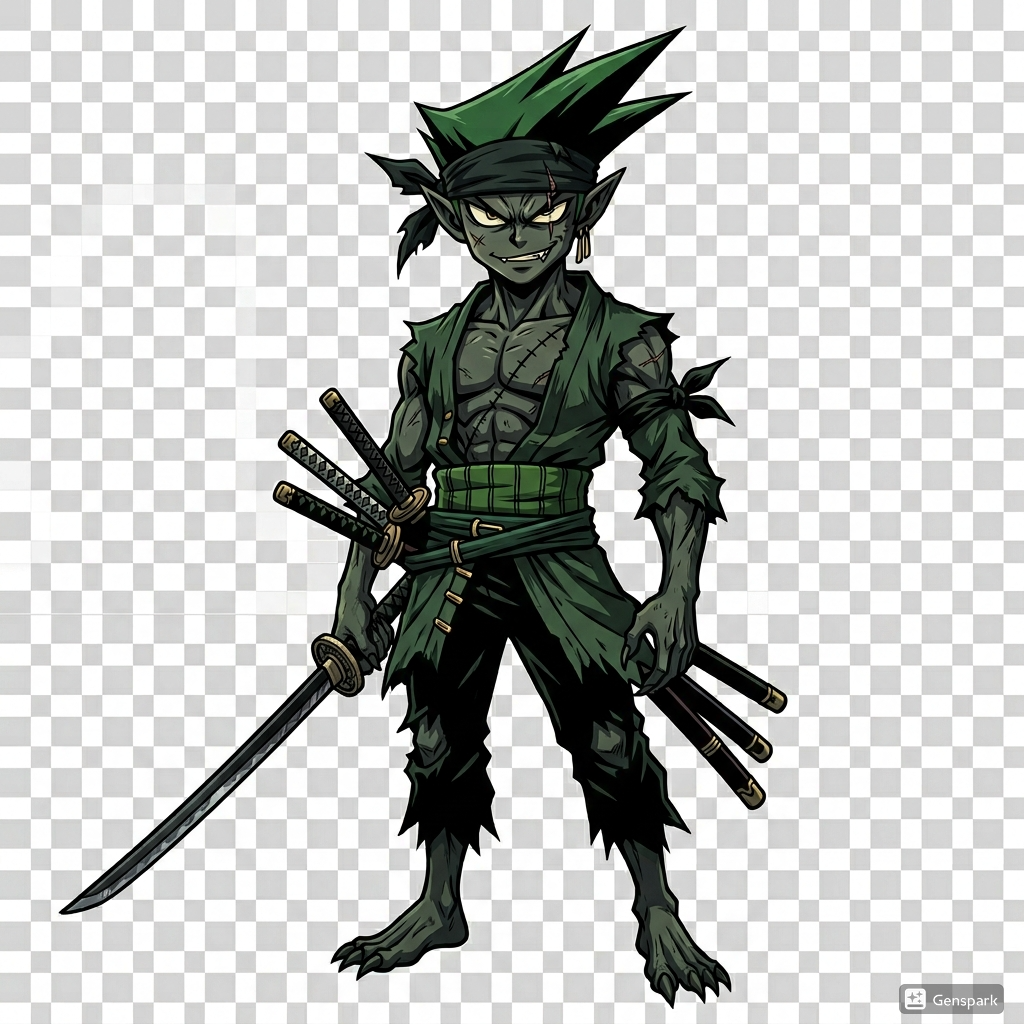
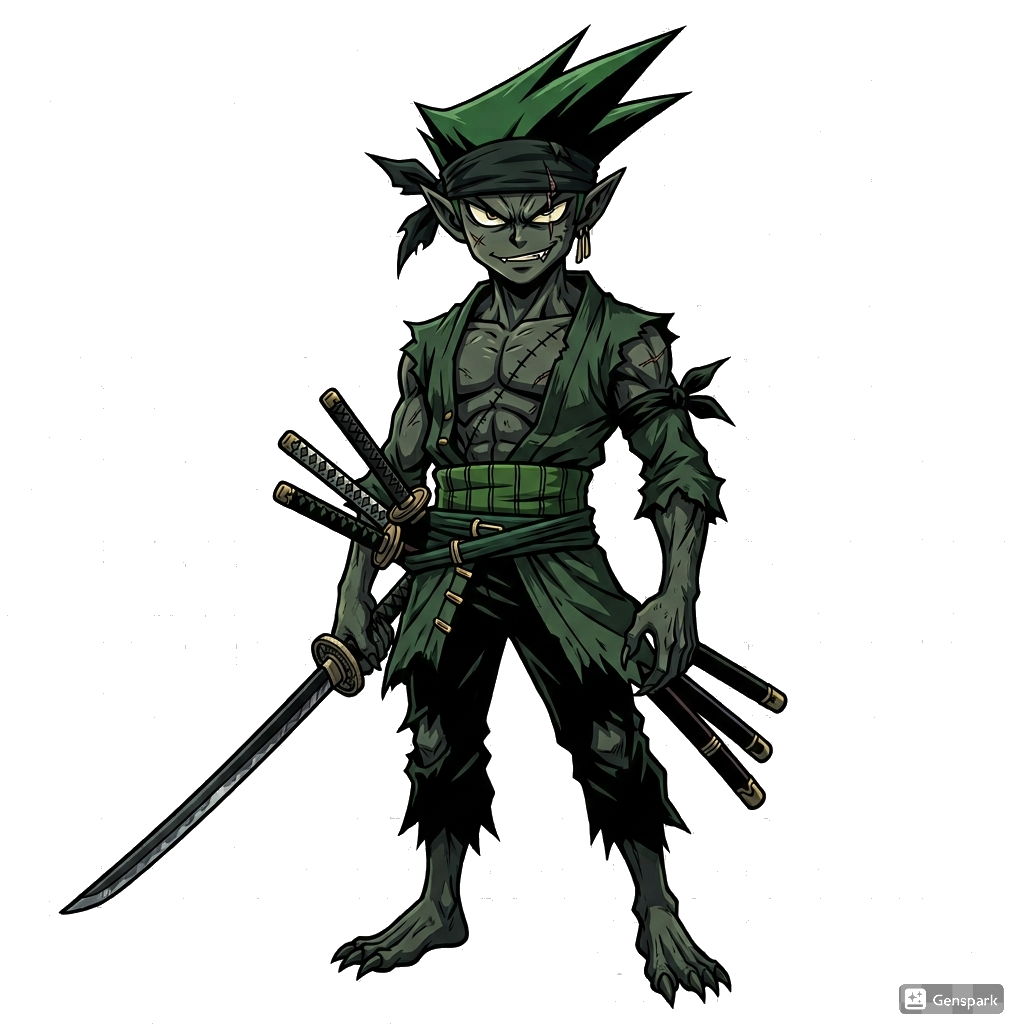
とっこの画像から白背景を透過処理で除去
PILで白〜明るいグレー(RGB>200)の815,883pxを透明に変換。
真の透過PNGになったためscreen合成を除去。

diff --git a/index.html b/index.html
@@ -985,10 +985,7 @@ function drawCharacterBody(x, y, scale, charIndex, time, facingLeft) {
     if (tokkoImg.complete && tokkoImg.naturalWidth > 0) {
       const imgW = 75 * s;
       const imgH = 90 * s;
-      ctx.save();
-      ctx.globalCompositeOperation = 'screen';
       ctx.drawImage(tokkoImg, -imgW / 2, -35 * s, imgW, imgH);
-      ctx.restore();
     } else {
       // Canvas fallback: beast silhouette
       // Legs
@@ -1388,7 +1385,7 @@ function drawBattleCharacter(x, y, scale, charIndex, time, facingLeft, animData)
     const imgH = imgSizes[charIndex][1] * s;
     const tankOfsX = charIndex === 12 ? -5 * s : 0;
     const tankOfsY = charIndex === 12 ? -20 * s : 0;
-    const useScreen = charIndex === 12 || charIndex === 13 || charIndex === 14;
+    const useScreen = charIndex === 12 || charIndex === 13;
     if (useScreen) ctx.globalCompositeOperation = 'screen';
 
     // Damage flash: smooth 2-frame blink with fading intensity
